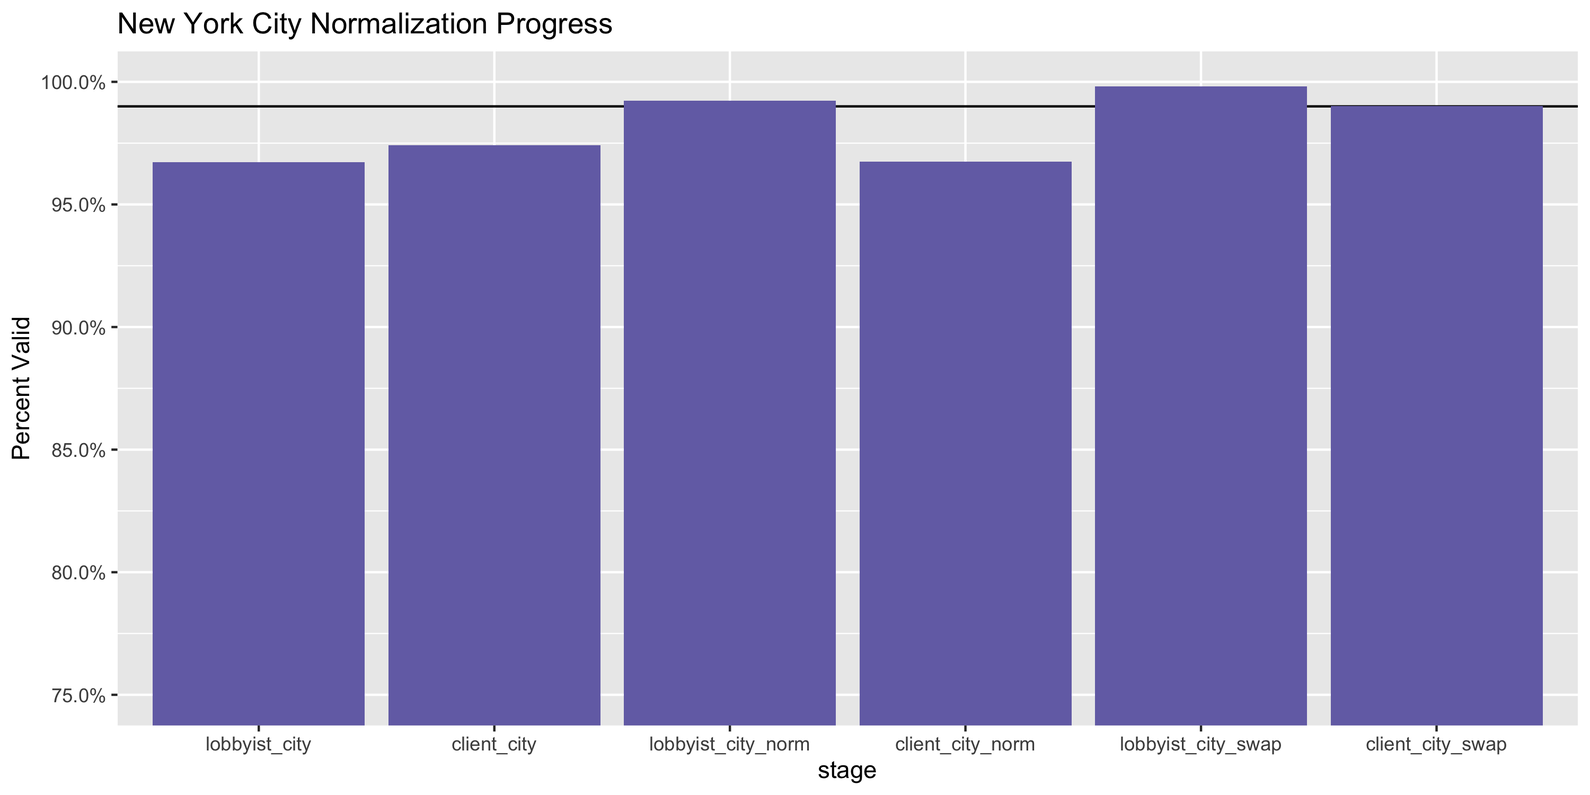
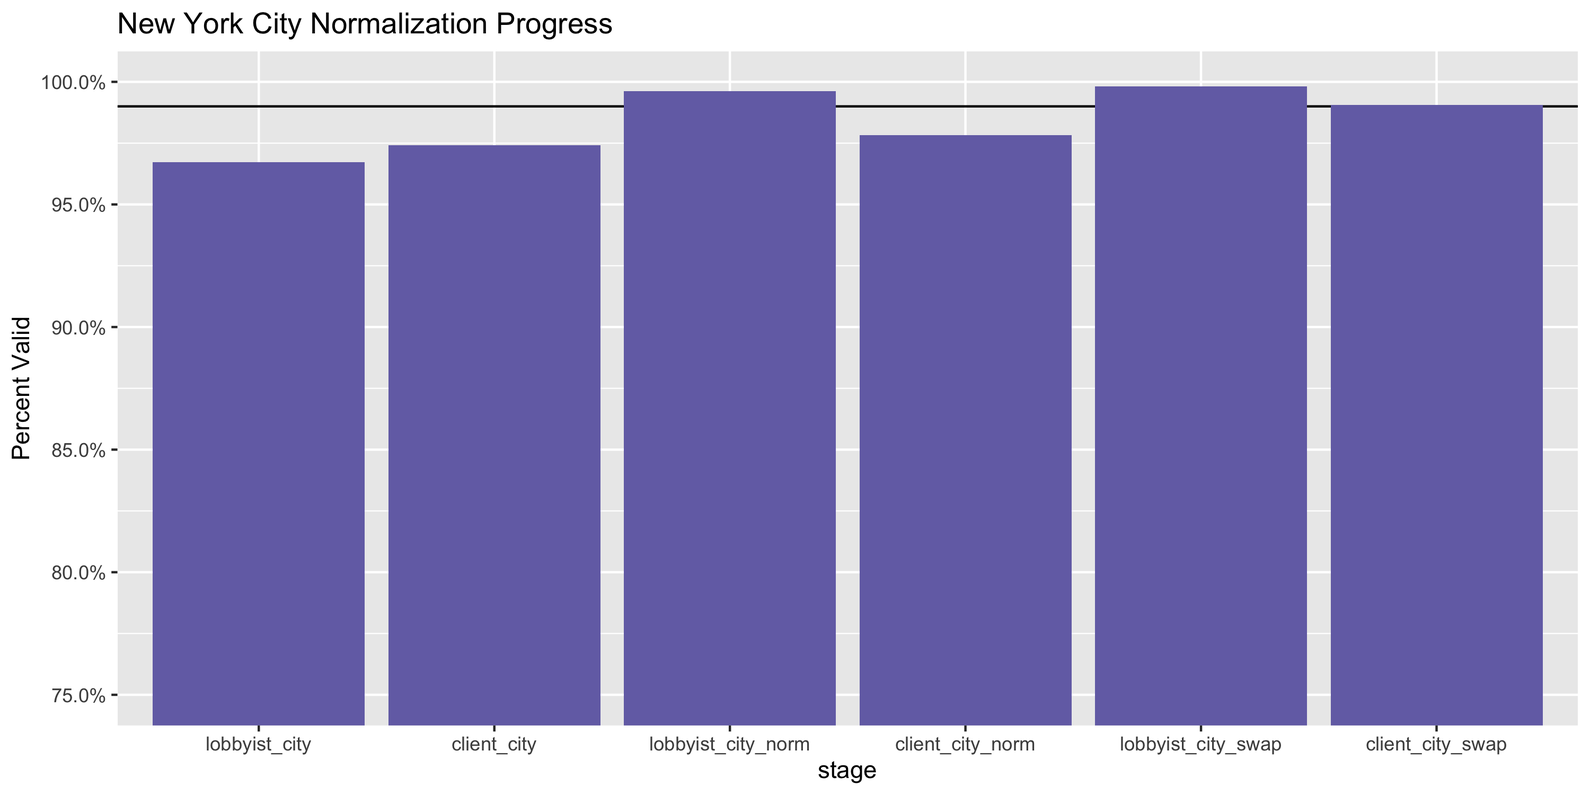
NY Lob

Changed region(s): [[0.527, 0.1533, 0.682, 0.2147], [0.403, 0.092, 0.527, 0.1533]]

diff --git a/R_campfin/ny/lobby/docs/ny_lob_reg_diary.md b/R_campfin/ny/lobby/docs/ny_lob_reg_diary.md
@@ -1,7 +1,18 @@
 New York Lobbying Registration Diary
 ================
 Yanqi Xu
-2020-02-12 17:42:26
+2020-05-07 15:41:31
+
+  - [Project](#project)
+  - [Objectives](#objectives)
+  - [Packages](#packages)
+  - [Data](#data)
+  - [Import](#import)
+  - [Explore](#explore)
+  - [Wrangle](#wrangle)
+  - [Conclude](#conclude)
+  - [Rename](#rename)
+  - [Export](#export)
 
 <!-- Place comments regarding knitting here -->
 
@@ -48,6 +59,7 @@ processing of campaign finance data.
 if (!require("pacman")) install.packages("pacman")
 pacman::p_load_gh("irworkshop/campfin")
 pacman::p_load(
+  pdftools, #wrangle pdf files
   readxl, #read excel files
   rvest, # used to scrape website and get html elements
   tidyverse, # data manipulation
@@ -87,7 +99,11 @@ here::here()
 The [New York State Joint Commission on Public
 Ethics](https://jcope.ny.gov/lobbying-datasets) makes Registered
 Lobbyist Disclosures from 2011 to 2018 available for download. The 2018
-data and prior year’s data exist in two separate files. \#\# Import
+data and prior year’s data exist in two separate files. A [data
+dictionary](https://jcope.ny.gov/system/files/documents/2018/04/nysjcoperegisteredlobbyistdisclosuresdatadictionary.pdf)
+is also available.
+
+## Import
 
 ### Setting up Raw Data Directory
 
@@ -98,11 +114,11 @@ raw_dir <- dir_create(here("ny", "lobby", "data", "raw"))
 ### Read
 
 Note that for years prior to 2018, data was originally stored as a
-“xlsb” file, and we converted it to `xlsx` in
-Excel.
+“xlsb” file, and we converted it to `xlsx` in Excel.
 
 ``` r
 ny_lob <- dir_ls(raw_dir, glob = "*.xlsx")  %>% map_dfr(read_xlsx) %>% clean_names()
+col_num <- ncol(ny_lob)
 ```
 
 ## Explore
@@ -149,8 +165,8 @@ tail(ny_lob)
 #> #   lobbyist_subjects_2 <chr>, person_1 <chr>, person_2 <chr>, procurement_number_1 <chr>,
 #> #   procurement_number_2 <chr>, procurement_subjects_1 <chr>, procurement_subjects_2 <lgl>
 glimpse(sample_n(ny_lob, 20))
-#> Observations: 20
-#> Variables: 39
+#> Rows: 20
+#> Columns: 39
 #> $ reporting_year          <dbl> 2015, 2011, 2018, 2013, 2014, 2017, 2018, 2014, 2013, 2013, 2017…
 #> $ reporting_period        <chr> "MJ", "ND", "MJ", "JA", "MJ", "JF", "ND", "ND", "MA", "MJ", "JA"…
 #> $ lobbyist_name           <chr> "SMYTH, A. ADVOCACY", "TLM ASSOCIATES LLC", "GETO & DE MILLY, IN…
@@ -359,8 +375,8 @@ ny_lob %>%
   distinct() %>% 
   sample_n(10) %>% 
   glimpse()
-#> Observations: 10
-#> Variables: 6
+#> Rows: 10
+#> Columns: 6
 #> $ lobbyist_address_1    <chr> "12 SHERIDAN AVENUE", "111 WASHINGTON AVENUE", "THE WOOLWORTH BUIL…
 #> $ lobbyist_address_2    <chr> NA, NA, "233 BROADWAY, SUITE 2310", "SUITE 302", "6TH FLOOR", "SUI…
 #> $ client_addresss1      <chr> "1911 LORINGS CROSSING", "111 WASHINGTON AVENUE", "2928 41ST AVENU…
@@ -400,7 +416,7 @@ progress_table(
 #> 4 client_zip5     0.995       2081       0   915     39
 ```
 
-### state
+### State
 
 Valid two digit state abbreviations can be made using the
 `campfin::normal_state()` function.
@@ -462,9 +478,9 @@ ny_lob <- ny_lob %>%
       na_rep = TRUE)))
 
 prop_in(ny_lob$lobbyist_city_norm, valid_city, na.rm = T)
-#> [1] 0.9850472
+#> [1] 0.9888982
 prop_in(ny_lob$client_city_norm, valid_city, na.rm = T)
-#> [1] 0.9557785
+#> [1] 0.9663208
 ```
 
 #### Swap
@@ -527,17 +543,16 @@ ny_lob <- ny_lob %>%
 ```
 
 After the two normalization steps, the percentage of valid cities is at
-100%. \#\#\#\#
-Progress
+100%. \#\#\#\# Progress
 
 | stage                | prop\_in | n\_distinct | prop\_na | n\_out | n\_diff |
 | :------------------- | -------: | ----------: | -------: | -----: | ------: |
 | lobbyist\_city       |    0.967 |         454 |    0.000 |   6330 |      36 |
 | client\_city         |    0.974 |        1367 |    0.000 |   4987 |     215 |
-| lobbyist\_city\_norm |    0.992 |         444 |    0.000 |   1472 |      32 |
-| client\_city\_norm   |    0.968 |        1340 |    0.000 |   6260 |     205 |
+| lobbyist\_city\_norm |    0.996 |         444 |    0.000 |    729 |      24 |
+| client\_city\_norm   |    0.978 |        1340 |    0.000 |   4190 |     184 |
 | lobbyist\_city\_swap |    0.998 |         437 |    0.014 |    373 |      14 |
-| client\_city\_swap   |    0.990 |        1216 |    0.021 |   1857 |      67 |
+| client\_city\_swap   |    0.991 |        1213 |    0.021 |   1774 |      60 |
 
 You can see how the percentage of valid values increased with each
 stage.
@@ -578,8 +593,8 @@ progress %>%
 
 ``` r
 glimpse(sample_n(ny_lob, 20))
-#> Observations: 20
-#> Variables: 50
+#> Rows: 20
+#> Columns: 50
 #> $ reporting_year          <dbl> 2011, 2013, 2017, 2018, 2016, 2015, 2011, 2018, 2016, 2015, 2012…
 #> $ reporting_period        <chr> "ND", "ND", "SO", "MJ", "JA", "SO", "MJ", "ND", "JF", "MJ", "JA"…
 #> $ lobbyist_name           <chr> "LYNCH, PATRICIA ASSOCIATES, INC.", "NORTHEAST GOVERNMENT CONSUL…
@@ -632,6 +647,15 @@ glimpse(sample_n(ny_lob, 20))
 #> $ client_city_swap        <chr> "STONY BROOK", "AUSTIN", "WILMINGTON", "MORRISTOWN", "ALBANY", "…
 ```
 
+## Rename
+
+``` r
+ny_lob <- ny_lob  %>% 
+  rename(lobbyist_city_clean = lobbyist_city_swap) %>% 
+  rename( client_city_clean = client_city_swap) %>% 
+  select(-c(lobbyist_city_norm, client_city_norm))
+```
+
 1.  There are 192941 records in the database.
 2.  There are 1384 duplicate records in the database.
 3.  The range and distribution of `amount` and `date` seem reasonable.
@@ -644,13 +668,69 @@ glimpse(sample_n(ny_lob, 20))
 ## Export
 
 ``` r
-clean_dir <- dir_create(here("ny", "lobby", "data", "reg","clean"))
+clean_dir <- dir_create(here("ny", "lobby", "data", "processed","reg"))
 ```
 
 ``` r
 write_csv(
-  x = ny_lob %>% rename(lobbyist_city_clean = lobbyist_city_swap) %>% rename( client_city_clean = client_city_swap),
-  path = path(clean_dir, "ny_lob_clean.csv"),
+  x = ny_lob,
+  path = path(clean_dir, "ny_lob_early.csv"),
   na = ""
 )
 ```
+
+### Dictionary
+
+Here we’ll generate the data dictionary provided by [NYS
+JCOPE](https://jcope.ny.gov/system/files/documents/2018/04/nysjcoperegisteredlobbyistdisclosuresdatadictionary.pdf)
+|Data Label                           |Data Type |Data Description                                                                                                                                                                                                                                                                                                                                       |
+|:------------------------------------|:---------|:------------------------------------------------------------------------------------------------------------------------------------------------------------------------------------------------------------------------------------------------------------------------------------------------------------------------------------------------------|
+|Additional Lobbyist LBR              |`Text`    |Additional Lobbyist Listed on the Principal Lobbyist Bi- monthly Report.                                                                                                                                                                                                                                                                               |
+|Additional Lobbyist LR               |`Text`    |Additional Lobbyist Listed on the Principal Lobbyist Registration                                                                                                                                                                                                                                                                                      |
+|Client Address1                      |`Text`    |Client Address 1                                                                                                                                                                                                                                                                                                                                       |
+|Client Address2                      |`Text`    |Client Address 2                                                                                                                                                                                                                                                                                                                                       |
+|Client Business Nature               |`Text`    |Description of Client Business, selected by Lobbyist Registering for this Client                                                                                                                                                                                                                                                                       |
+|Client City                          |`Text`    |Client City                                                                                                                                                                                                                                                                                                                                            |
+|Client Name                          |`Text`    |Lobbying Client Name                                                                                                                                                                                                                                                                                                                                   |
+|Client Phone                         |`Text`    |Client Phone                                                                                                                                                                                                                                                                                                                                           |
+|Client State                         |`Text`    |Client State                                                                                                                                                                                                                                                                                                                                           |
+|Client Zip                           |`Text`    |Client Zip                                                                                                                                                                                                                                                                                                                                             |
+|Government Level                     |`Text`    |State = (S), Local = (L), Both = (B)                                                                                                                                                                                                                                                                                                                   |
+|Lobbying Type                        |`Text`    |Procurement = (P), Non-Procurement = (N), Both =(B)                                                                                                                                                                                                                                                                                                    |
+|Lobbyist Address1                    |`Text`    |Lobbyist Address 1                                                                                                                                                                                                                                                                                                                                     |
+|Lobbyist Address2                    |`Text`    |Lobbyist Address 2                                                                                                                                                                                                                                                                                                                                     |
+|Lobbyist City                        |`Text`    |Lobbyist City                                                                                                                                                                                                                                                                                                                                          |
+|Lobbyist Email                       |`Text`    |Lobbyist E-mail Note: Though this column is in the data dictionary provided by NYS JCOPE, it is actually not in the original data.                                                                                                                                                                                                                     |
+|Lobbyist Name                        |`Text`    |Name of Lobbyist                                                                                                                                                                                                                                                                                                                                       |
+|Lobbyist Phone                       |`Text`    |Lobbyist Phone                                                                                                                                                                                                                                                                                                                                         |
+|Lobbyist State                       |`Text`    |Lobbyist State                                                                                                                                                                                                                                                                                                                                         |
+|Lobbyist Type                        |`Text`    |Retained = (R), Employed = (E), Designated = (D)                                                                                                                                                                                                                                                                                                       |
+|Lobbyist Zip                         |`Text`    |Lobbyist Zip                                                                                                                                                                                                                                                                                                                                           |
+|LR Party First Name                  |`Text`    |First name of person listed on the lobbyist profile                                                                                                                                                                                                                                                                                                    |
+|Reporting Period                     |`Text`    |January - February (JF), March-April (MA), May - June (MJ), July-August (JA), September - October (SA), November - December (ND)                                                                                                                                                                                                                       |
+|Reporting Year                       |`Text`    |Filing Year responsible for filing the Lobbyist Registration and Bimonthly Reports. In the case of an individual principal lobbyist, this person is the individual listed in the principal lobbyist name field. In the case of an organization, this person is the organization’s chief administrative officer.                                        |
+|Lobbyist Responsible Party Last Name |`Text`    |Last name of person listed on the lobbyist profile responsible for filing the Lobbyist Registration and Bimonthly Reports. In the case of an individual principal lobbyist, this person is the individual listed in the principal lobbyist name field. In the case of an organization, this person is the organization’s chief administrative officer. |
+|Total Expenses                       |`Text`    |Summary of Expenses reported for the period                                                                                                                                                                                                                                                                                                            |
+|Total Compensation                   |`Text`    |Summary of Compensation reported for the period                                                                                                                                                                                                                                                                                                        |
+|Total Reimbursed                     |`Text`    |Summary of Reimbursed Expenses reported for the period                                                                                                                                                                                                                                                                                                 |
+|Bill Details 1                       |`Text`    |Bill, Rule, Regulation, Rate Number or brief description relative to the introduction or intended introduction of legislation or a resolution lobbied                                                                                                                                                                                                  |
+|Bill Details 2                       |`Text`    |Bill, Rule, Regulation, Rate Number or brief description relative to the introduction or intended introduction of legislation or a resolution lobbied                                                                                                                                                                                                  |
+|Procurement Details 1                |`Text`    |Title and Identifying # of procurement contracts and documents lobbied.                                                                                                                                                                                                                                                                                |
+|Procurement Details 2                |`Text`    |Title and Identifying # of procurement contracts and documents lobbied.                                                                                                                                                                                                                                                                                |
+|Lobbyist Subjects 1                  |`Text`    |Subjects lobbied                                                                                                                                                                                                                                                                                                                                       |
+|Lobbyist Subjects 2                  |`Text`    |Subjects lobbied                                                                                                                                                                                                                                                                                                                                       |
+|Person 1                             |`Text`    |Person, State Agency, Municipality, or Legislative Body lobbied.                                                                                                                                                                                                                                                                                       |
+|Person 2                             |`Text`    |Person, State Agency, Municipality, or Legislative Body lobbied. Number or Subject Matter of Executive Order of                                                                                                                                                                                                                                        |
+|Procurement Number 1                 |`Text`    |Governor/Municipality lobbied. Number or Subject Matter of Executive Order of                                                                                                                                                                                                                                                                          |
+|Procurement Number 2                 |`Text`    |Governor/Municipality lobbied.                                                                                                                                                                                                                                                                                                                         |
+|Procurement Subjects 1               |`Text`    |Subject Matter of and Tribes involved in tribal-state compacts, etc. lobbied.                                                                                                                                                                                                                                                                          |
+|Procurement Subjects 2               |`Text`    |Subject Matter of and Tribes involved in tribal-state compacts, etc. lobbied.                                                                                                                                                                                                                                                                          |
+|dupe_flag                            |`Logical` |Indivator of whether this has another idential record (Both flagged), generated by flag_dupe                                                                                                                                                                                                                                                           |
+|lobbyist_address_norm                |`Text`    |Normalized combined lobbying firms street address                                                                                                                                                                                                                                                                                                      |
+|client_address_norm                  |`Text`    |Normalized combined client street address                                                                                                                                                                                                                                                                                                              |
+|lobbyist_zip5                        |`Text`    |Normalzed 5-digit lobbyist zip field from`lobbyist_zip`                                                                                                                                                                                                                                                                                                |
+|client_zip5                          |`Text`    |Normalzed 5-digit client zip field from`client_zip`                                                                                                                                                                                                                                                                                                    |
+|lobbyist_state_norm                  |`Text`    |Normalized state field from`lobbyist_state`                                                                                                                                                                                                                                                                                                            |
+|client_state_norm                    |`Text`    |Normalized State field from`client_state`                                                                                                                                                                                                                                                                                                              |
+|lobbyist_city_clean                  |`Text`    |Normalized city  (valid locale) field from`lobbyist_city`                                                                                                                                                                                                                                                                                              |
+|client_city_clean                    |`Text`    |Normalized city (valid locale) field from`client_city`                                                                                                                                                                                                                                                                                                 |
